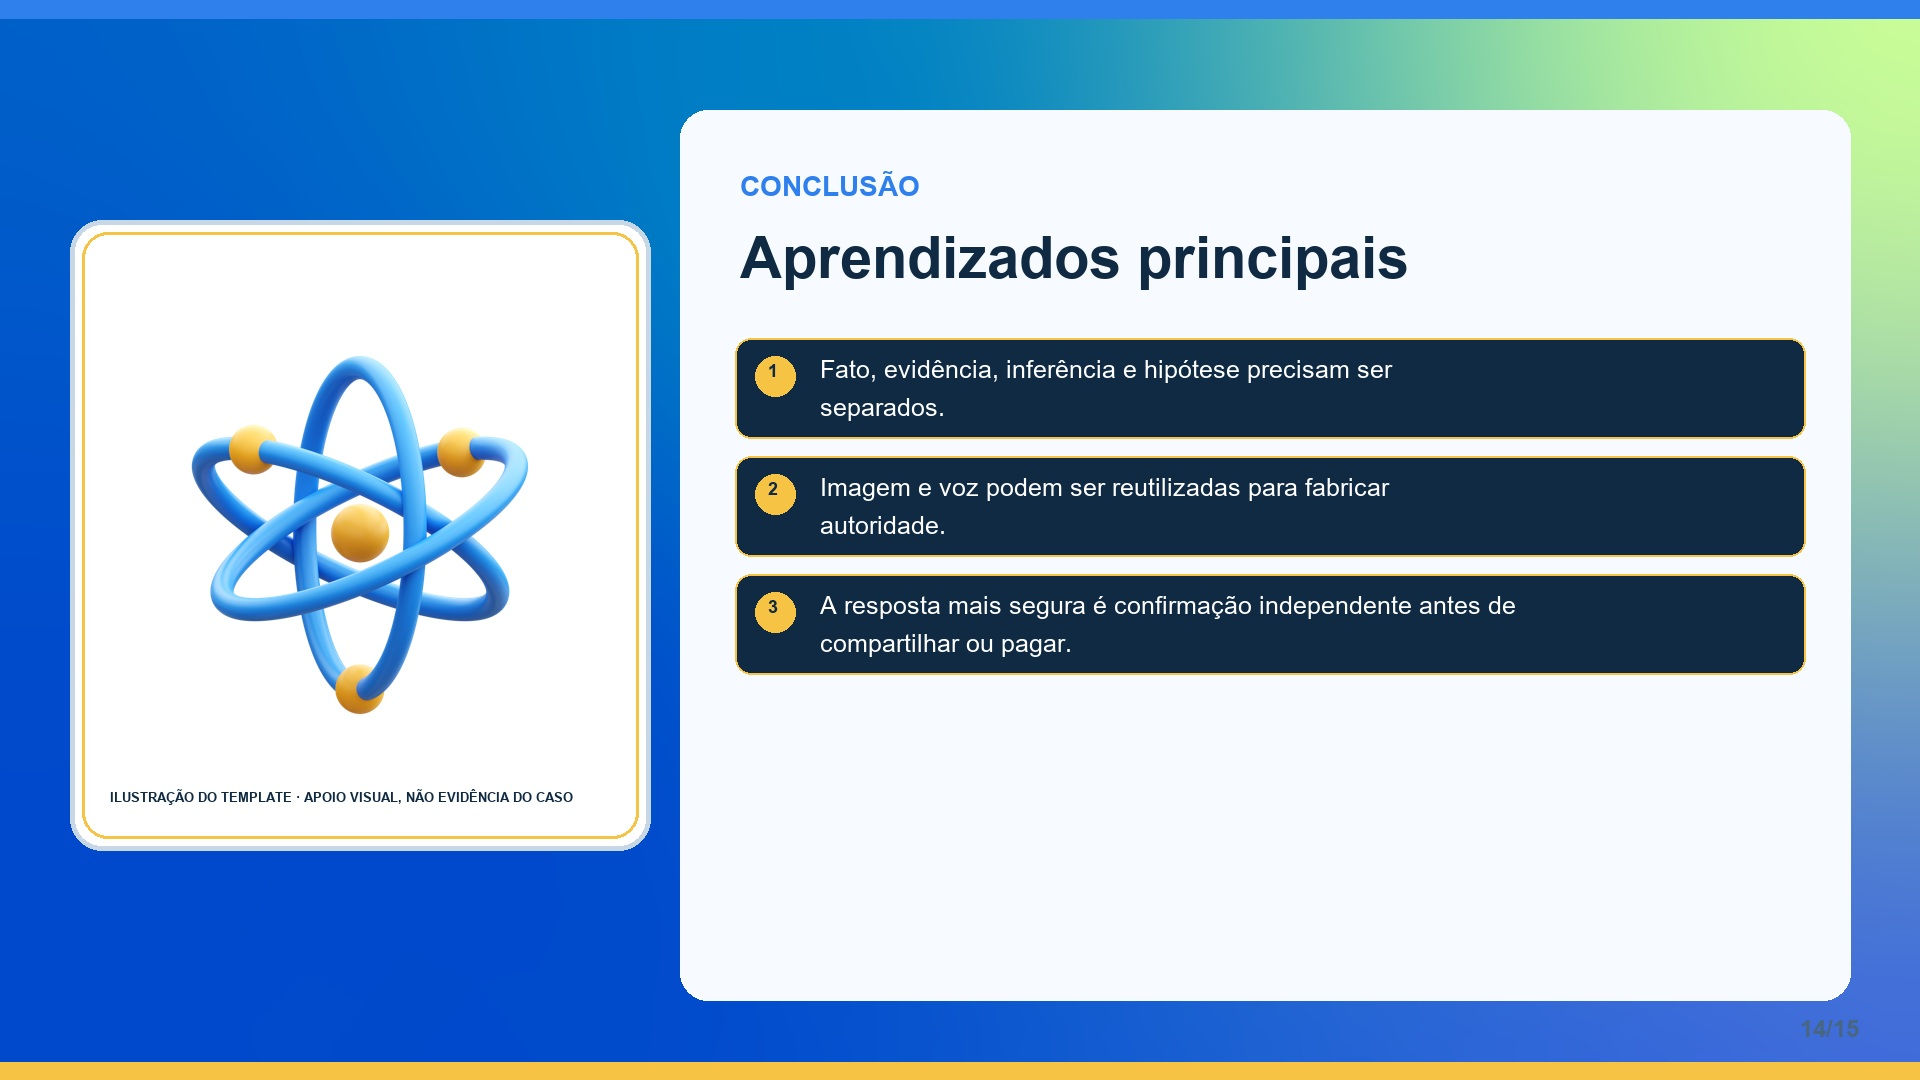
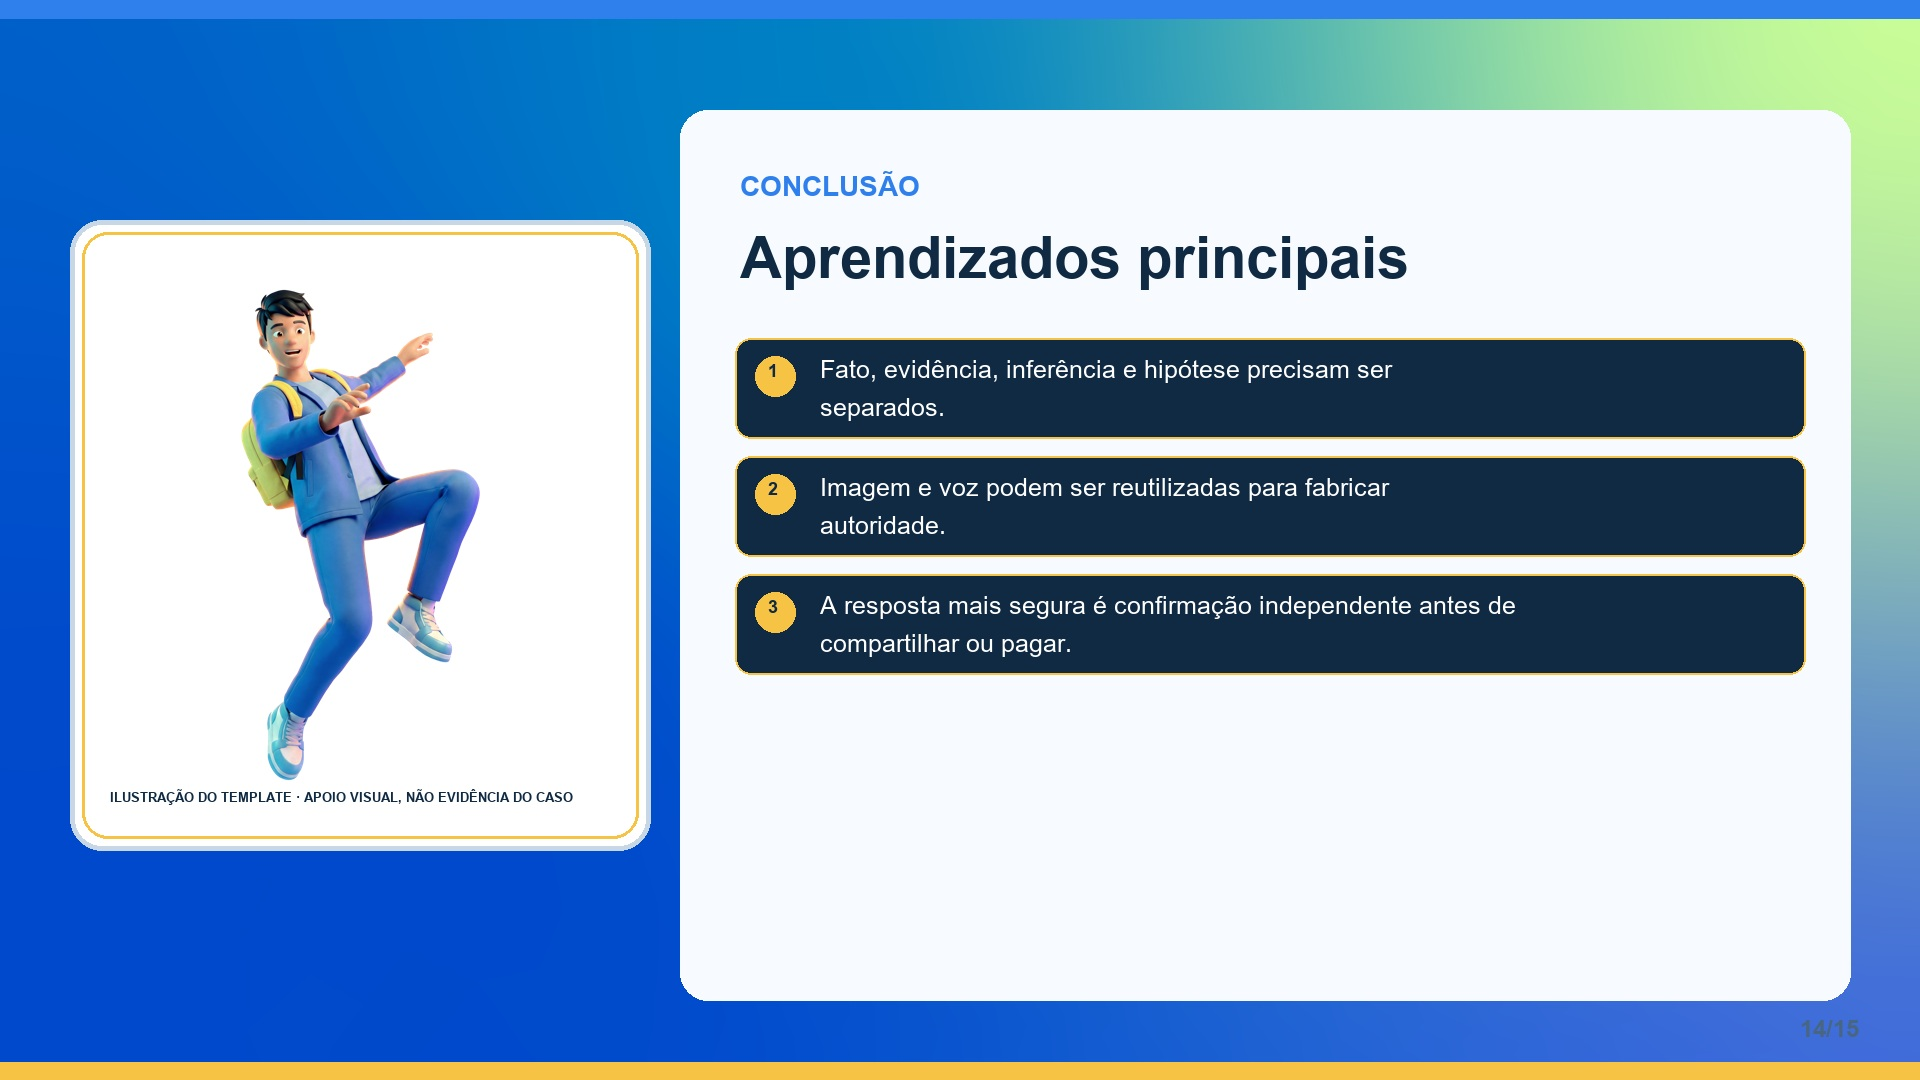
fix: destacar personagem na conclusao

Changed region(s): [[0.0938, 0.275, 0.2812, 0.7333]]

diff --git a/scripts/generate_n3_jpgs.py b/scripts/generate_n3_jpgs.py
@@ -17,7 +17,7 @@ S=[
 ('CAMPANHA · 2','Explicação técnica simplificada',['Deepfake é conteúdo audiovisual alterado ou criado com IA para parecer que uma pessoa disse ou fez algo.','No caso, a aparência de fala foi associada a uma oferta comercial que o ator declarou não ter autorizado.'],'template-icones-ilustracoes-007.png'),
 ('CAMPANHA · 3','Impactos destacados',['Fraude econômica, coleta indevida de dados, desinformação e perda de confiança.','A campanha orienta sem culpar vítimas e sem expor dados pessoais.'],'template-icones-ilustracoes-106.png'),
 ('CAMPANHA · 4','Peça visual da campanha',['PARE · CONFIRME · DENUNCIE','1. Pause antes de clicar. 2. Confirme no canal oficial. 3. Não forneça dados. 4. Denuncie e preserve o link.','Peça de conscientização; não é anúncio real.'],'template-icones-ilustracoes-007.png'),
-('CONCLUSÃO','Aprendizados principais',['Fato, evidência, inferência e hipótese precisam ser separados.','Imagem e voz podem ser reutilizadas para fabricar autoridade.','A resposta mais segura é confirmação independente antes de compartilhar ou pagar.'],'template-icones-ilustracoes-075.png'),
+('CONCLUSÃO','Aprendizados principais',['Fato, evidência, inferência e hipótese precisam ser separados.','Imagem e voz podem ser reutilizadas para fabricar autoridade.','A resposta mais segura é confirmação independente antes de compartilhar ou pagar.'],'template-icones-ilustracoes-007.png'),
 ('REFERÊNCIAS','Fontes utilizadas',['CNN BRASIL (2024). Marcos Palmeira: rosto do ator é usado com IA em golpe no Instagram.','MIRSKY; LEE (2021). The creation and detection of deepfakes. ACM Computing Surveys.','VACCARI; CHADWICK (2020). Deepfakes and disinformation. Social Media + Society.','BRASIL (2018). Lei Geral de Proteção de Dados. ANPD (2023). Guia orientativo. NIST (2023). AI Risk Management Framework.'],'template-icones-ilustracoes-107.png')]
 def diagram(d, i):
     # Diagramas autorais: visualizam relações documentadas sem reproduzir mídia jornalística protegida.

diff --git a/docs/ux-ui-assets-plan.md b/docs/ux-ui-assets-plan.md
@@ -33,7 +33,7 @@ O PPTX original contém 117 arquivos de mídia incorporados. Eles foram extraíd
 | Recomendações | `template-icones-ilustracoes-040.png` | checklist de ação |
 | Público | `template-icones-ilustracoes-100.png` | rede/comunidade |
 | Referências | `template-icones-ilustracoes-107.png` | bibliografia |
-| Conclusão | `template-icones-ilustracoes-075.png` | síntese científica/aprendizado |
+| Conclusão | `template-icones-ilustracoes-007.png` | personagem apresentando os aprendizados |
 
 ## Validação
 
